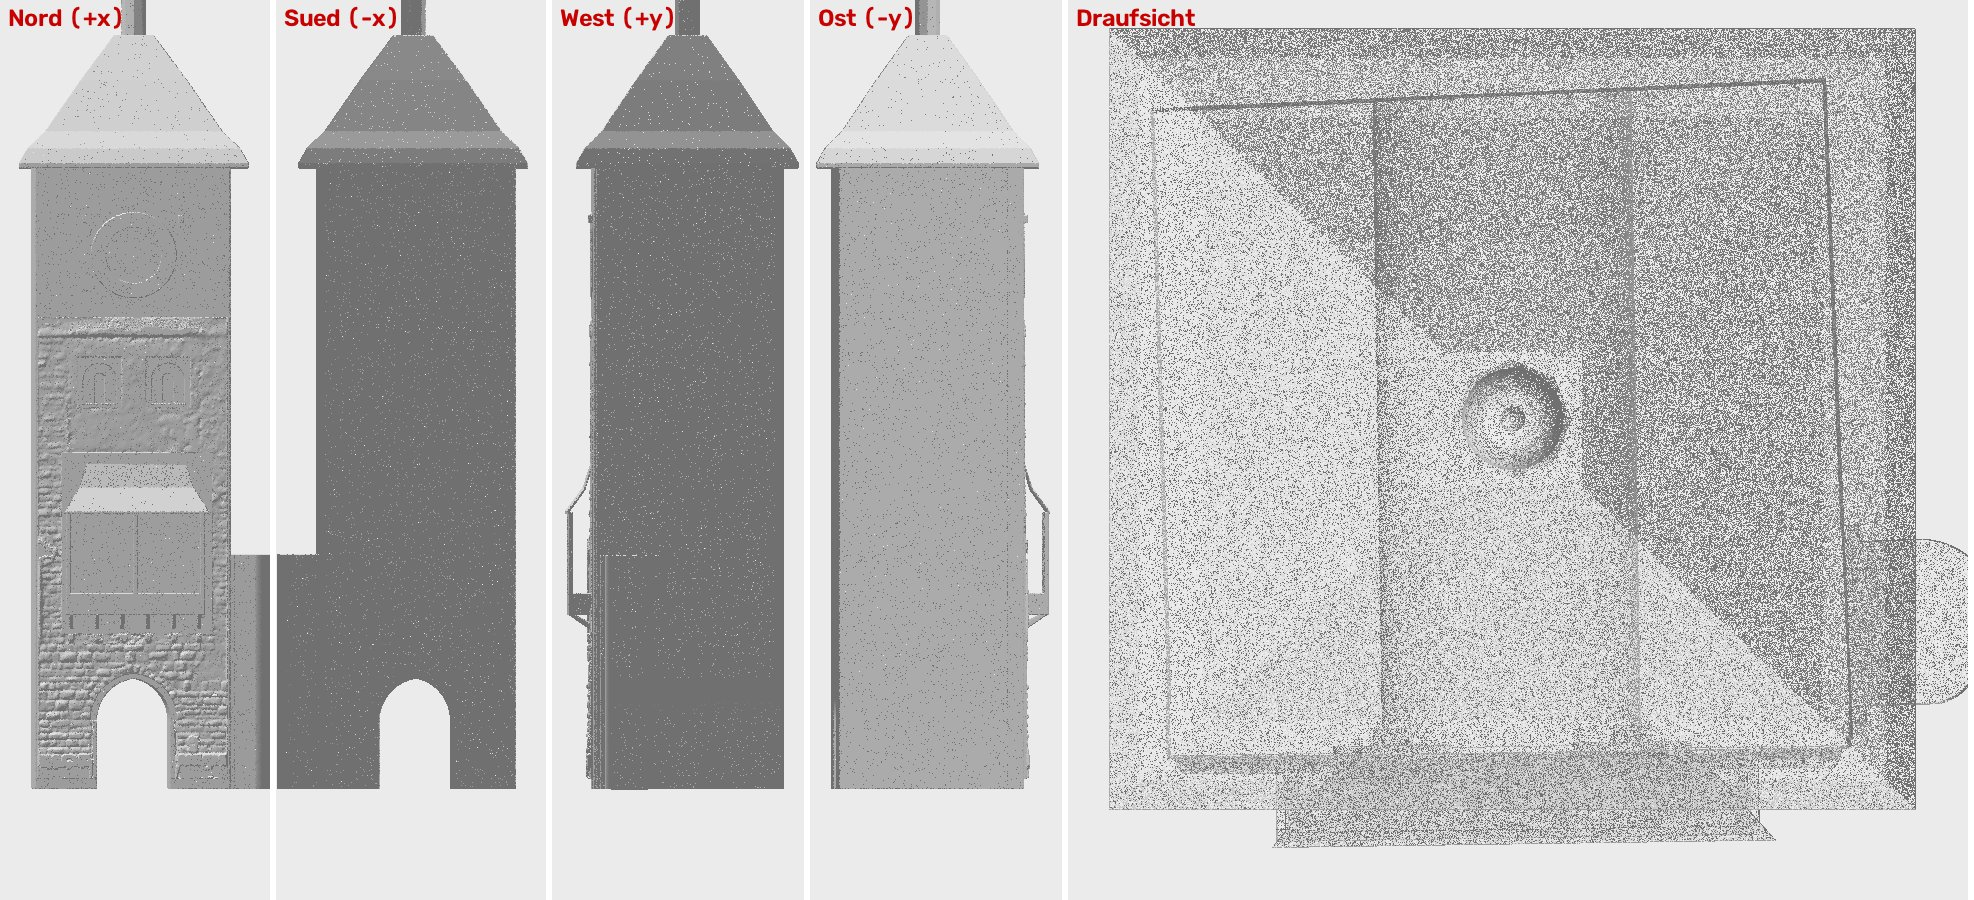
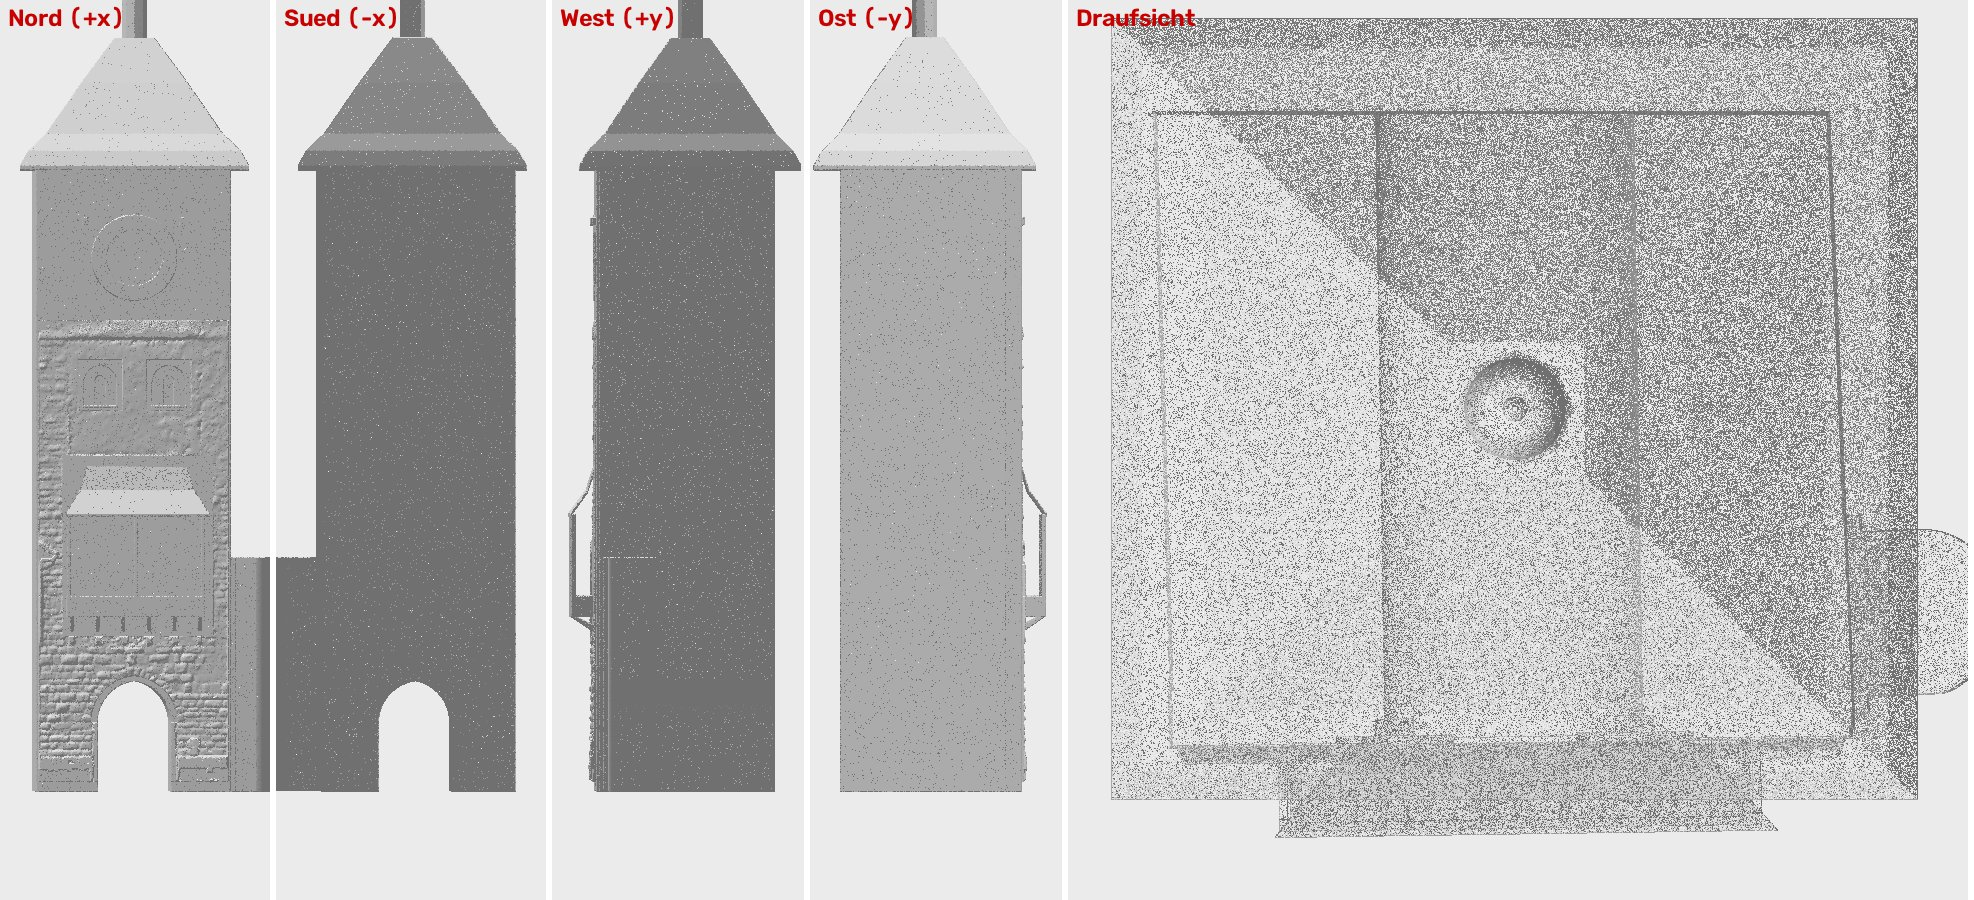
schwab_v3: Suedwand an das neue SfM gelegt (0,45 m kuerzer), Abnahme gruen
Claude-Session: https://claude.ai/code/session_01BMC5F7JqzthTsrTAV2gKLz

diff --git a/modelle/schwab_v3_gen.py b/modelle/schwab_v3_gen.py
@@ -134,6 +134,13 @@ if obj.get("lod2", {}).get("id"):                    # Standard: LoD2-Grundriss 
     for ub in (3.05, 9.10): rumpf = rumpf + kasten(ub - 0.15, ub + 0.15, 35.55, 36.0, -0.05, 0.25)            # Balkenkoepfe: Lage aus dem entzerrten Foto 113029, Groesse ANNAHME
     beleg("wand", "Uhr Nord (Zifferblatt 5,36 m, Innenfeld 3,52 m)", "foto_mass.py auf der Wandebene, Fotos 113029 und 113205", durchmesser=U_D, mitte_u=U_UM, mitte_z=U_ZM,
           hinweis="ANNAHME: Ring 10 cm / Innenfeld 6 cm vor der Wand; Ziffern, Zeiger, Sonne/Mond nicht modelliert; 2 Balkenkoepfe nach Augenschein")
+    # Suedwand (15.11.2026, Nutzerbilder 14:47/15:35 "Modell zu gross"): im neuen SfM (Eckpaare) liegt die Suedwand bei x -7,10 (korrigierter Rahmen), der skalierte
+    # LoD2-Umriss bei -7,6. Mit den neuen Kameras stimmt die Suedfassade mit der Nordseite ueberein (Uhrmitte 31,1 / 31,25 m, Uhr 4,9 / 5,0 m, Traufe ~37 m).
+    # Lage-Veto: Koerper an x = -7,10 abschneiden (im Rohrahmen umgerechnet). ANNAHME: Wand senkrecht und parallel zur y-Achse; am Foto noch zu peilen.
+    X_SUED = MC[0] + (-7.10 - MC[0]) / MK
+    rumpf = rumpf.trim_by_plane((1.0, 0.0, 0.0), float(X_SUED))
+    beleg("wand", "Suedwand (Ebene)", "SfM-Neuaufbau mit Eckpaaren (sfm_neu), Wandpunkte z 8-33 m; Gegenprobe Uhr/Traufe im entzerrten Suedfoto 127", x=round(X_SUED, 2),
+          hinweis="Lage-Veto der neuen SfM-Punkte, nicht am Foto gepeilt; Knauf-Tor Nord-Sued noch 0,9 m")
     koerper = massstab(rumpf + dach + lat, MK)
     for e_ in ELEMENTE[N_BELEGE_LOD2:]:                    # Masse der Belege in den korrigierten Rahmen: Laengen/Hoehen x MK, Winkel bleiben, x-Lagen um den Drehpunkt
         for q_, v_ in list(e_.items()):

diff --git a/modelle/schwab_v3/MASSNACHWEIS.md b/modelle/schwab_v3/MASSNACHWEIS.md
@@ -49,7 +49,7 @@ Massstab: *dokument/lod2/laser* = absolut; *foto_intern* = bekanntes Mass im sel
 - **laser_dom1**: 1 von 1 Pruefungen gruen (1-m-Raster, interpoliert, nur von oben; Strukturen < ~3 m verschmiert, Nadeln unsichtbar. BLIND auch fuer Grundriss mit Vorspruengen < ~1 m (Gesims, Erker): die Flaeche ueber Hoehe faellt dann 15-20 % zu klein aus (Martinstor 2026-11-01, Register O/P))
 - **foto_kalibriert**: 27 von 27 Pruefungen gruen (Kamera aus amtlichen Ankern (LoD2/DOM1), Pixel->Meter auf bekannter Ebene; +-0,1-0,3 m je Mass, +-1 m systematisch in der Hoehe (Ankerhoehen))
 
-## Elemente des Generators: 14 belegt, 0 Annahmen
+## Elemente des Generators: 15 belegt, 0 Annahmen
 
 - wand: Grundriss Teil 0 - LoD2 DEBW_001000hPLcp GroundSurface 0
 - wand: Teil 1 (ohne Dachmessung) - LoD2 DEBW_001000hPLcp Wandoberkante (31 eigene Waende)
@@ -65,6 +65,7 @@ Massstab: *dokument/lod2/laser* = absolut; *foto_intern* = bekanntes Mass im sel
 - wand: Holzgalerie Nord (Boden, Bruestung, 3 Pfosten, 6 Streben) - Foto-Triangulation foto_mass.py --tri (M-113231-001..-004)
 - dach: Vordach Nord (geschweiftes Pultdach) - Foto-Triangulation foto_mass.py --tri (M-113128-001..-004)
 - wand: Uhr Nord (Zifferblatt 5,36 m, Innenfeld 3,52 m) - foto_mass.py auf der Wandebene, Fotos 113029 und 113205
+- wand: Suedwand (Ebene) - SfM-Neuaufbau mit Eckpaaren (sfm_neu), Wandpunkte z 8-33 m; Gegenprobe Uhr/Traufe im entzerrten Suedfoto 127
 
 ## Beobachtungen ohne Pruefung
 
@@ -84,15 +85,14 @@ Massstab: *dokument/lod2/laser* = absolut; *foto_intern* = bekanntes Mass im sel
 - 2026-11-15 Claude: Nach der Massstabskorrektur 0,947: Modell-Dachflaeche liegt noch im Median +0,66 m ueber dem DOM1-Laser (r 3-6 m von der Dachmitte: Laser 41,4 / 39,8 / 38,4 / 37,4, Modell 42,2 / 40,9 / 39,5 / 38,1), Vordach +0,3 m (16,7 gegen 16,4), hoechster Punkt 52,4 gegen DOM1-Mitte 49,6. Vorher +3,2 m. Rest = Massstab noch ~1-2 % zu gross (k eher 0,93) und/oder Dachform (echtes Dach an der Traufe flacher = Aufschiebling, Modell gerade Pyramide). -> Hoehen-Tor als Werkzeug: Modell-/Wolkenflaechen (Dach, Vordach, Nachbardaecher) gegen DOM1-Pixel ausgleichen -> Massstab k mit Streuung; Dach als zweiteilige Flaeche (Aufschiebling) aus dem Laserprofil + Fotokante; dann Pruefung 'Dachflaeche gegen DOM1' (laser_dom1, hoehe_flaeche) anlegen
 - 2026-11-15 hoehe_gegen_dom1.py / Claude: Hoehen-Tor nach Massstab 0,933 und geschweiftem Dach: 62 ebene Dachpixel, Modell - Laser +0,46 m (MAD 0,12) beim besten Lageversatz des Modells (0 / -0,5 m); ohne Versatz +0,56 m. Das Modelldach liegt also ~0,5 m zu weit in +y (West) gegenueber dem Laser und noch knapp 0,5 m zu hoch (Tor mit Toleranz 0,5 m gerade bestanden). -> Klaeren, ob nur das Dach (Traufecken Ost 8,20 / West 22,55 roh, Ueberstand ungleich 1,02 / 1,17) oder die ganze Ausrichtung 0,5 m in y versetzt ist: Wolkenwaende Ost/West gegen LoD2 im neuen Massstab, Nachbardaecher gegen DOM1; Dachprofil-Stuetzpunkte aus allen Dachpixeln ausgleichen statt aus 4 Linien
 - 2026-11-15 Nutzer (3D-Seite V14, Bildschirmfoto 14:36, rot markiert): Am Turmfuss neben dem Nordtor steht der Modellkoerper als glatter Streifen seitlich ueber die Relief-Fassade und ueber die Wolke hinaus (senkrechte Kante im Modell, die es am Bau nicht gibt). Bild audit/beobachtung_1436_koerper_breiter_als_wolke.jpg -> Ursache pruefen: seit der Massstabskorrektur bleibt der LoD2-Grundkoerper unskaliert (12,1 m), die Fototeile sind mit 0,933 skaliert (Schaft 11,3 m) -> Koerper je Seite ~0,4 m zu breit. Wolkenwaende im neuen Rahmen gegen den Koerper messen, Koerper an die Wolke/Fotowand legen
-- auto fehlteile_finden (Foto eigen__IMG_20261106_113231, Treffer 1): Foto zeigt Struktur ohne Modellgegenstueck bei z=36.84 m, y=17.06 m (Zelle [1512, 1080, 108], Score +1.00) -> audit/fehlteile_eigen__IMG_20261106_113231.jpg Treffer 1 ansehen, Element benennen, Zeile + beleg()
-- auto fehlteile_finden (Foto eigen__IMG_20261106_113231, Treffer 2): Foto zeigt Struktur ohne Modellgegenstueck bei z=29.34 m, y=9.78 m (Zelle [972, 1512, 108], Score +1.00) -> audit/fehlteile_eigen__IMG_20261106_113231.jpg Treffer 2 ansehen, Element benennen, Zeile + beleg()
-- auto fehlteile_finden (Foto eigen__IMG_20261106_113231, Treffer 3): Foto zeigt Struktur ohne Modellgegenstueck bei z=27.1 m, y=9.76 m (Zelle [972, 1620, 108], Score +1.00) -> audit/fehlteile_eigen__IMG_20261106_113231.jpg Treffer 3 ansehen, Element benennen, Zeile + beleg()
-- auto fehlteile_finden (Foto eigen__IMG_20261106_113231, Treffer 4): Foto zeigt Struktur ohne Modellgegenstueck bei z=25.22 m, y=9.81 m (Zelle [972, 1728, 108], Score +1.00) -> audit/fehlteile_eigen__IMG_20261106_113231.jpg Treffer 4 ansehen, Element benennen, Zeile + beleg()
-- auto fehlteile_finden (Foto eigen__IMG_20261106_113231, Treffer 5): Foto zeigt Struktur ohne Modellgegenstueck bei z=23.37 m, y=9.82 m (Zelle [972, 1836, 108], Score +1.00) -> audit/fehlteile_eigen__IMG_20261106_113231.jpg Treffer 5 ansehen, Element benennen, Zeile + beleg()
-- auto fehlteile_finden (Foto eigen__IMG_20261106_113231, Treffer 6): Foto zeigt Struktur ohne Modellgegenstueck bei z=20.0 m, y=9.85 m (Zelle [972, 2052, 108], Score +1.00) -> audit/fehlteile_eigen__IMG_20261106_113231.jpg Treffer 6 ansehen, Element benennen, Zeile + beleg()
 - 2026-11-15 Nutzer (3D-Seite, Bildschirmfotos 14:39, zwei Ansichten): 'Diese Ansicht meine ich': von vorn und entlang der Nordfassade gesehen steht die Fotowolke VOR bzw. neben der Modellfassade (rot markierter Streifen an der Turmkante). Bilder audit/beobachtung_1439_ansicht_a.jpg / _b.jpg. GEMESSEN: Wolkenwand Nord 0,15-0,30 m vor der Modellwand (z 4-33 m), Ost/West/Sued nach der Skalierung des Grundkoerpers +-0,2 m. ERLEDIGT 15.11.: Nordwandebene +0,17 m nach aussen (Lage-Veto Wolke/Netz; meine Peilung der Wandecken war +-0,19..0,35 m unsicher), Wandanzug 0,6 cm/m ueber das Relief (trend=True), Wand bis zur Ebene aufgefuellt. Danach Wolke - Modell an freien Wandstreifen: +0,01..+0,06 m (z 6-33), -0,17 m bei z 3 und z 14. -> Reststellen z 3 (Sockelstufe am Reliefrand) und z 14 (Anschluss Nachbardach) ansehen; gleiche Pruefung (senkrechte Schnitte Wolke/Modell) als Werkzeug fuer alle Seiten
 - 2026-11-15 Nutzer (3D-Seite V16, Bildschirmfoto 14:47, rote Punkte): Von der Seite Schlossbergring (Sued, Blick von unten) liegt die Turmkante laut Fotowolke an anderer Stelle als im Modell: rote Punkte = Kante der Wolke, Modellkante ~1 m daneben (Richtung Fachwerk-/Nachbarhaus, Ost). Bild audit/beobachtung_1447_kante_rote_punkte.jpg. GEMESSEN (waagerechte Schnitte z 21-33 m, audit/schnitte_schaft_wolke_modell.jpg): Nordwand und Nord-Ecken Wolke/Modell +-0,2 m; SUEDWAND der Wolke endet im Osten bei y ~10,7 statt an der Modellecke y ~9,4 (1,3 m kuerzer), im Westen buendig. Die Suedwolke stammt aus der verzerrten Sued-Fotogruppe (Massstab ~0,89; Knauf 5,9 m zu tief). Gegenprobe ohne Wolke: im entzerrten Suedfoto 127 ist die Fassade 2,2 Uhrdurchmesser breit, an der Nordseite 2,26 -> die Suedfassade ist so breit wie die Nordfassade, die Wolke ist dort zu schmal. -> Nicht das Modell an die Suedwolke schieben. SfM der Turmfotos neu (Job v3_turm_lg laeuft), danach Suedwand/Ecken per Foto peilen und gegen die neue Wolke schneiden; bis dahin Suedwolke in der 3D-Seite als unzuverlaessig kennzeichnen oder ausblenden
 - 2026-11-15 Nutzer (3D-Seite V16, Bildschirmfoto 15:35, rote Punkte): 'Immer noch das Gleiche - das Modell ist zu gross': von Sued gesehen liegt die Ostkante der Wolke ~1 m innerhalb der Modellkante. Bild audit/beobachtung_1535_modell_zu_gross_sued.jpg. GEMESSEN mit dem neuen SfM (Eckpaare, sfm_neu, Knauf-Tor noch 0,9 m): Suedwand reicht dort von y ~9,6 bis ~20,8 = volle Modellbreite (Modellecken 9,36 / 20,57); die ALTE dichte Wolke reicht nur von ~10,2 bis ~19 (verzerrte Suedgruppe). In Nord-Sued-Richtung liegt die Suedwand des neuen SfM aber bei x -7,1, das Modell bei -7,6: Modell dort moeglicherweise 0,4-0,5 m zu lang. Bild audit/schnitt_alt_neu_sfm_modell.jpg. -> Breite Ost-West am Modell lassen. Nord-Sued-Laenge klaeren, sobald das Knauf-Tor < 0,3 m ist (dann Suedwand am Foto peilen und gegen die neue dichte Wolke schneiden); bis dahin Suedwand = ANNAHME (LoD2 x 0,933). 3D-Seite zeigt ab V17 die neuen SfM-Punkte statt der alten dichten Wolke
+- auto fehlteile_finden (Foto eigen__IMG_20261106_113231, Treffer 1): Foto zeigt Struktur ohne Modellgegenstueck bei z=28.8 m, y=9.78 m (Zelle [981, 1526, 109], Score +1.00) -> audit/fehlteile_eigen__IMG_20261106_113231.jpg Treffer 1 ansehen, Element benennen, Zeile + beleg()
+- auto fehlteile_finden (Foto eigen__IMG_20261106_113231, Treffer 2): Foto zeigt Struktur ohne Modellgegenstueck bei z=26.71 m, y=9.8 m (Zelle [981, 1635, 109], Score +1.00) -> audit/fehlteile_eigen__IMG_20261106_113231.jpg Treffer 2 ansehen, Element benennen, Zeile + beleg()
+- auto fehlteile_finden (Foto eigen__IMG_20261106_113231, Treffer 3): Foto zeigt Struktur ohne Modellgegenstueck bei z=24.77 m, y=9.82 m (Zelle [981, 1744, 109], Score +1.00) -> audit/fehlteile_eigen__IMG_20261106_113231.jpg Treffer 3 ansehen, Element benennen, Zeile + beleg()
+- auto fehlteile_finden (Foto eigen__IMG_20261106_113231, Treffer 4): Foto zeigt Struktur ohne Modellgegenstueck bei z=19.68 m, y=9.9 m (Zelle [981, 2071, 109], Score +1.00) -> audit/fehlteile_eigen__IMG_20261106_113231.jpg Treffer 4 ansehen, Element benennen, Zeile + beleg()
+- auto fehlteile_finden (Foto eigen__IMG_20261106_113231, Treffer 5): Foto zeigt Struktur ohne Modellgegenstueck bei z=18.18 m, y=9.92 m (Zelle [981, 2180, 109], Score +1.00) -> audit/fehlteile_eigen__IMG_20261106_113231.jpg Treffer 5 ansehen, Element benennen, Zeile + beleg()
 
 ## Grenze
 

diff --git a/modelle/STAND_2026-11-14.md b/modelle/STAND_2026-11-14.md
@@ -212,3 +212,4 @@
 - **23:55 SfM-NEUAUFBAU FERTIG (sfm_neu/sparse/0: 565 von 565 Bildern, 164 270 Punkte; Kalibrierung 309 s, globaler Mapper 534 s) - DEUTLICH BESSER, ABER TOR NOCH NICHT BESTANDEN.** Neues Tor `tools/gruppen_punkt_tor.py` (gleicher Punkt aus jeder Fotogruppe; Picks modelle/schwab_v3/messprotokoll/PICKS-knauf.json): altes SfM Knauf Nord-Sued 6,26 m; neues SfM 0,87-0,94 m (dx 0,6, dz 0,7). GPS-Vergleich (187 Fotos): Median 3,8 m (alt 4,7), p90 16,7 (alt 11,6), Anteil > 15 m 11 % (alt 9 %). Lage im jetzigen Rahmen ueber die NORD-Kameras (eigen, Azimut +-40 Grad): 79 von 82 Kameras, Rest Median 3,3 cm, Massstab 13,1098 (gespeichert sfm_neu/aehnl_nord.npy = s, R (9), t) -> Nordmessungen bleiben gueltig (Knauf Nord -1,85 / 15,11 / 50,73 gegen alt -1,80 / 15,16 / 50,54). Suedwand im neuen Modell bei x -7,1 (Modell -7,6): Turm in Nord-Sued-Richtung noch ~0,5 m (5 %) zu kurz. NICHT uebernommen (K-Dateien, Wolke, Netz unveraendert). NAECHSTE SCHRITTE: (1) Restverzerrung druecken: Knauf- und Traufecken-Picks als Verknuepfungspunkte in einen abschliessenden Buendelausgleich ODER zweite Runde mit mehr Eckfotos; (2) falls < 0,3 m: K-Dateien aus sfm_neu ueber aehnl_nord schreiben (alte sichern), dichte Wolke + Netz neu (GPU ~45 min, Platz pruefen), Tore (Insel, GPS, Lot, Hoehe, Knauf); (3) sonst Suedseite je Fassade ueber bekannte Masse kalibrieren (u aus Schaftbreite, z aus Pflaster und Laser-Traufe) und Bauteile mit tools/bauteile.py bauen. (4) Tore in gesamtkette.py/pipeline_objekt.py einbauen und am Kaufhaus gegenpruefen (Nutzerfrage: allgemein oder Spezialwerkzeug -> allgemein geschrieben, aber noch nicht in der Kette und nur am Schwabentor erprobt).
 - **00:20 Nutzerbild 15:35 ("immer noch, Modell zu gross", Suedansicht):** mit dem NEUEN SfM gegengeprueft (audit/schnitt_alt_neu_sfm_modell.jpg). Ost-West: neues SfM zeigt die Suedwand ueber die volle Modellbreite (y 9,6-20,8) und erstmals die Westwand auf der Modellkante -> Breite des Modells stimmt, die alte dichte Wolke war an der Suedseite ~1,3 m zu kurz. Nord-Sued: Suedwand des neuen SfM 0,4-0,5 m INNERHALB des Modells (x -7,1 gegen -7,6) -> hier hat der Nutzer moeglicherweise recht; nicht geaendert, weil das Knauf-Tor noch 0,9 m zeigt (Laser-Dachmitte x -2,12 spricht eher fuer das Modell). 3D-Seite Version 17 zeigt die neuen SfM-Punkte (duenn, 149 000) statt der alten dichten Wolke; Datei sfm_neu/punkte_sparse_modellrahmen.npy (Rahmen ueber Nordkameras, aehnl_nord.npy).
 - **00:50 Nutzer: "und lerne mit"** -> Lehren in Memory feedback-lehren-schwabentor-1511 und modelle/NICHTS_GEBRACHT.md (Abschnitt 15.11.). **NEUES SfM UEBERNOMMEN (Kameras):** SFM-AUSRICHTUNG-schwab_v3.json = sfm_neu ueber 79 Nordkameras (alt: ..._altsfm.json; Zwischenstaende _vorlot, _vormassstab), 565 K-Dateien neu (alte: rc-park_daten/schwab_v3/K_vorneu). Gegenproben: Traufecke A aus den Nordfotos (4,27 / 22,06 / 36,69) gegen erwartet (4,30 / 22,06 / 36,57); GPS-Tor 1,00 (vorher 1,04) - stuetzt den Lasermassstab; Abnahme gruen; foto_diff 113231 jetzt 8 % / 47 % (vorher 11 % / 55 %). Abschliessender Buendelausgleich brachte am Knauf nichts (0,90 m); die Suedfotos haben 17-70 Punkte ueber 35 m, sind also verankert -> Rest ist echte Verzerrung Nord gegen Sued (~0,9 m am Knauf, Suedwand 0,4-0,5 m). NICHT neu: dichte Wolke/Netz (alt; Nordteil gueltig, Suedteil verzerrt) - 3D-Seite zeigt die neuen duennen SfM-Punkte. NAECHSTES: Suedfassade mit den neuen Kameras messen und ueber bekannte Masse eichen (Breite = Modell, Hoehe = Pflaster / Laser-Traufe 36,6), Bauteile mit tools/bauteile.py.
+- **01:15 SUEDWAND DES MODELLS AN DAS NEUE SfM GELEGT - der Nutzer hatte recht ("Modell zu gross", Nord-Sued).** Mit den neuen Kameras stimmt die Suedfassade im entzerrten Foto 127 mit der Nordseite ueberein: Uhrmitte z 31,1 (Nord 31,25), Uhrdurchmesser 4,9 m (Nord 5,0), Traufe ~37 m (Laser 36,6), Fassadenbreite 10,9 m (Modell 11,2) -> Suedseite jetzt auf ~2-3 % messbar. Generator: Koerper an x = -7,10 abgeschnitten (vorher -7,6; 0,45 m kuerzer). Abnahme gruen. Kontrollbild audit/schnitt_neu_sfm_modell_nach_suedwand.jpg: Modell liegt auf den neuen SfM-Punkten an Nord-, West- und Suedwand; Suedwand am Westende noch ~0,2 m zu weit innen (echte Wand ist leicht schraeg, mein Schnitt gerade) - beim Peilen der Suedecken beheben. 3D-Seite Version 18. NAECHSTES: Suedfassade wie Nord bauen (Tor, Georgsfeld, Fenster, Gesims, Uhr) mit tools/bauteile.py und wand_ortho.py; Ortho-Bild der Suedseite erscheint gespiegelt (u-Richtung) - Darstellung korrigieren; danach dichte Wolke/Netz aus dem neuen SfM fuer das Relief Sued/West.
